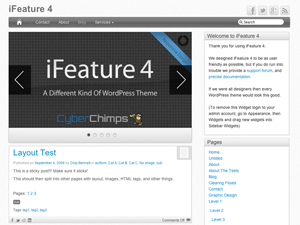
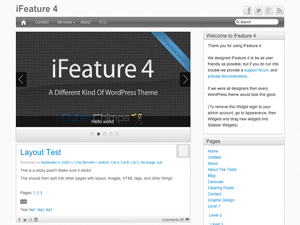
screenshot, removed height auto from objects in responsive style sheet.

diff --git a/core/css/foundation.css b/core/css/foundation.css
@@ -220,7 +220,8 @@
 	
 	
 	
-	img, object, embed { max-width: 100%; height: auto; }
+	img { max-width: 100%; height: auto; }
+	object, embed { max-width: 100%; }
 	img { -ms-interpolation-mode: bicubic; }
 	#map_canvas img, .map_canvas img {max-width: none!important;}
 	 
